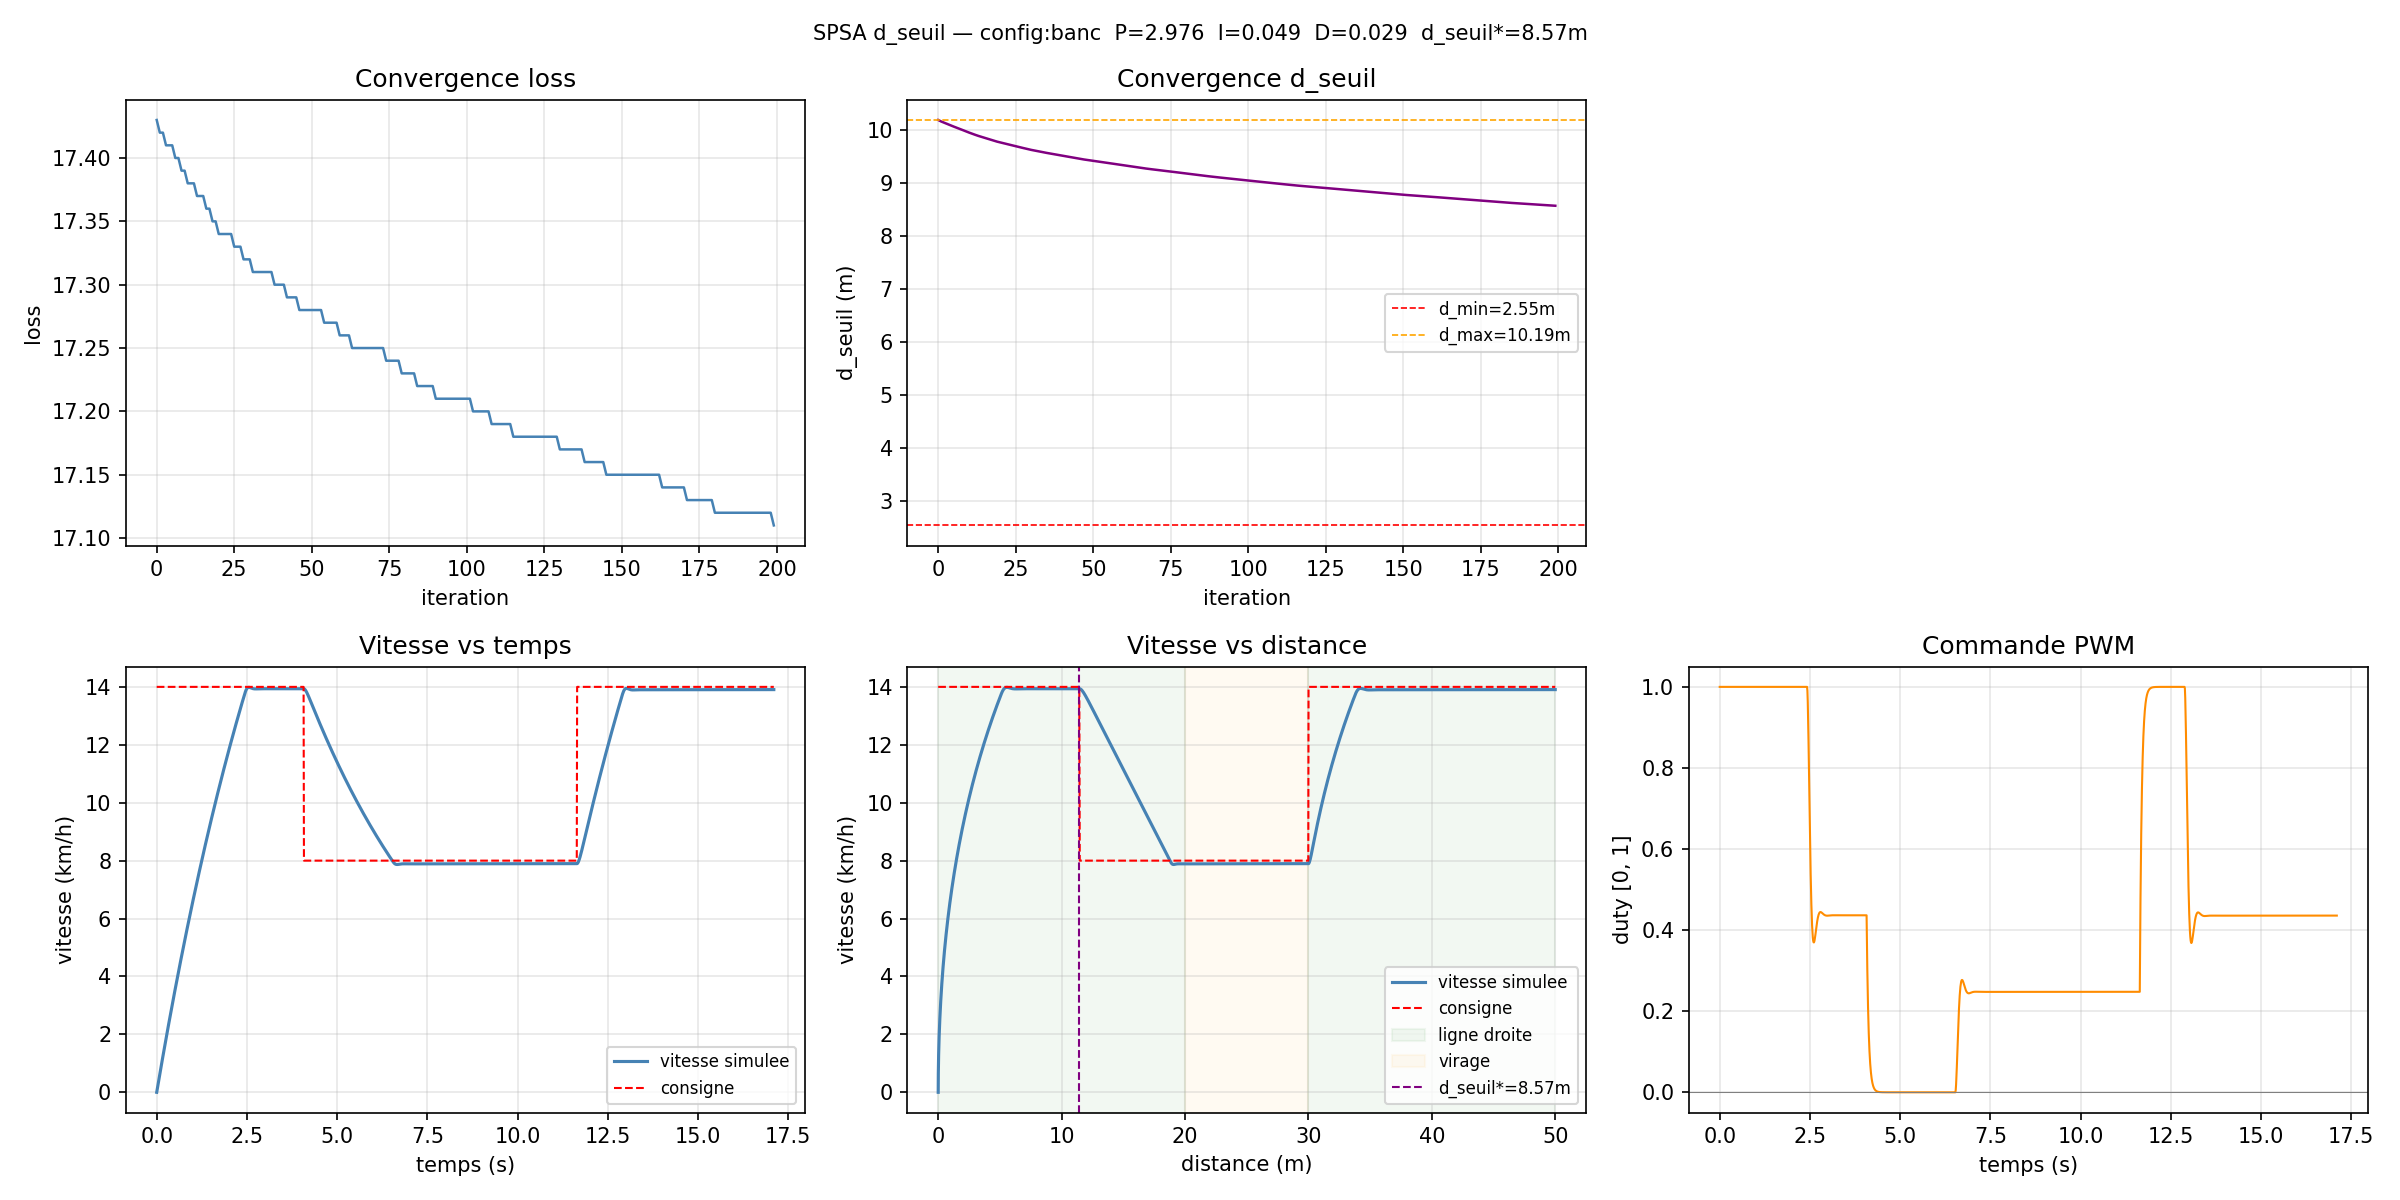
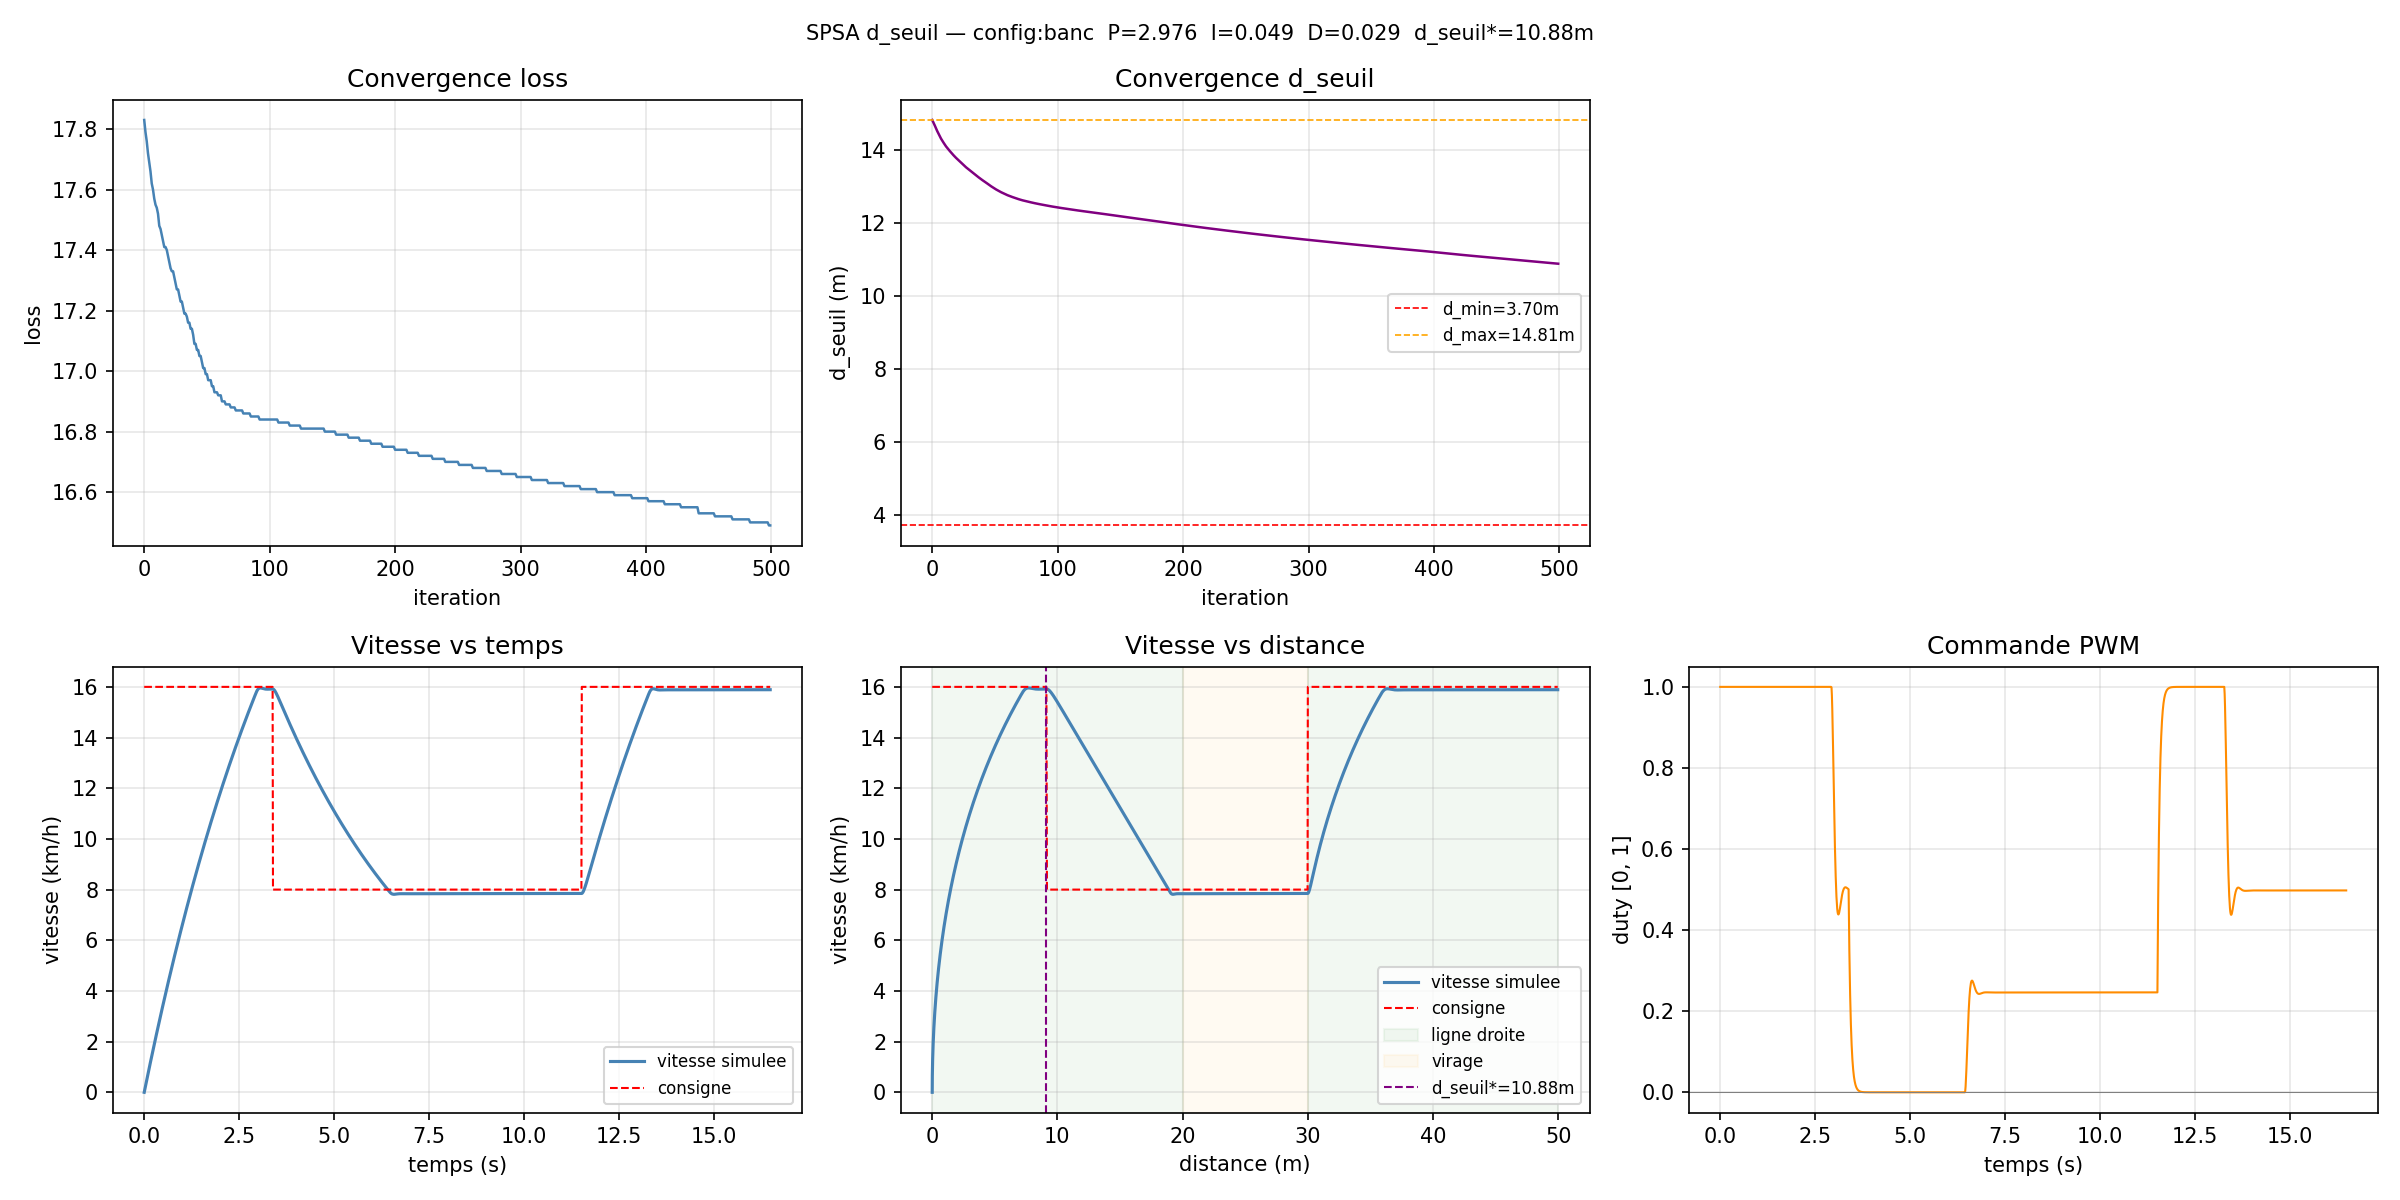
algorithme SPSA avec PID et distance de freinage

diff --git a/Hermes/optimisation adaptive des parametres PID/simulation/spsa_4params.py b/Hermes/optimisation adaptive des parametres PID/simulation/spsa_4params.py
@@ -13,7 +13,7 @@ from spsa_optimizer import PIDController, DT
 # =============================================================
 #  Constantes du profil
 # =============================================================
-VIT_LIGNE   = 14.0   # km/h
+VIT_LIGNE   = 16.0   # km/h
 VIT_VIRAGE  =  8.0   # km/h
 DIST_LIGNE  = 20.0   # m
 DIST_VIRAGE = 10.0   # m
@@ -28,7 +28,7 @@ D_FIXED = 0.029
 A_FREIN     = 2.0   # m/s²  — placeholder, remplacer par valeur .ino
 D_SEUIL_MIN = ((VIT_LIGNE/3.6)**2 - (VIT_VIRAGE/3.6)**2) \
               / (2 * A_FREIN)   # ≈ 2.55 m
-D_SEUIL_MAX = D_SEUIL_MIN * 4   # ≈ 6.4 m
+D_SEUIL_MAX = D_SEUIL_MIN * 4   
 
 # =============================================================
 #  Consigne basée sur la distance et d_seuil
@@ -246,7 +246,7 @@ if __name__ == "__main__":
 
     d_seuil_star, historique_loss, historique_dseuil = spsa_dseuil(
         motor,
-        n_iterations = 200,
+        n_iterations = 500,
         alpha        = 0.5,
         c            = 0.3
     )
